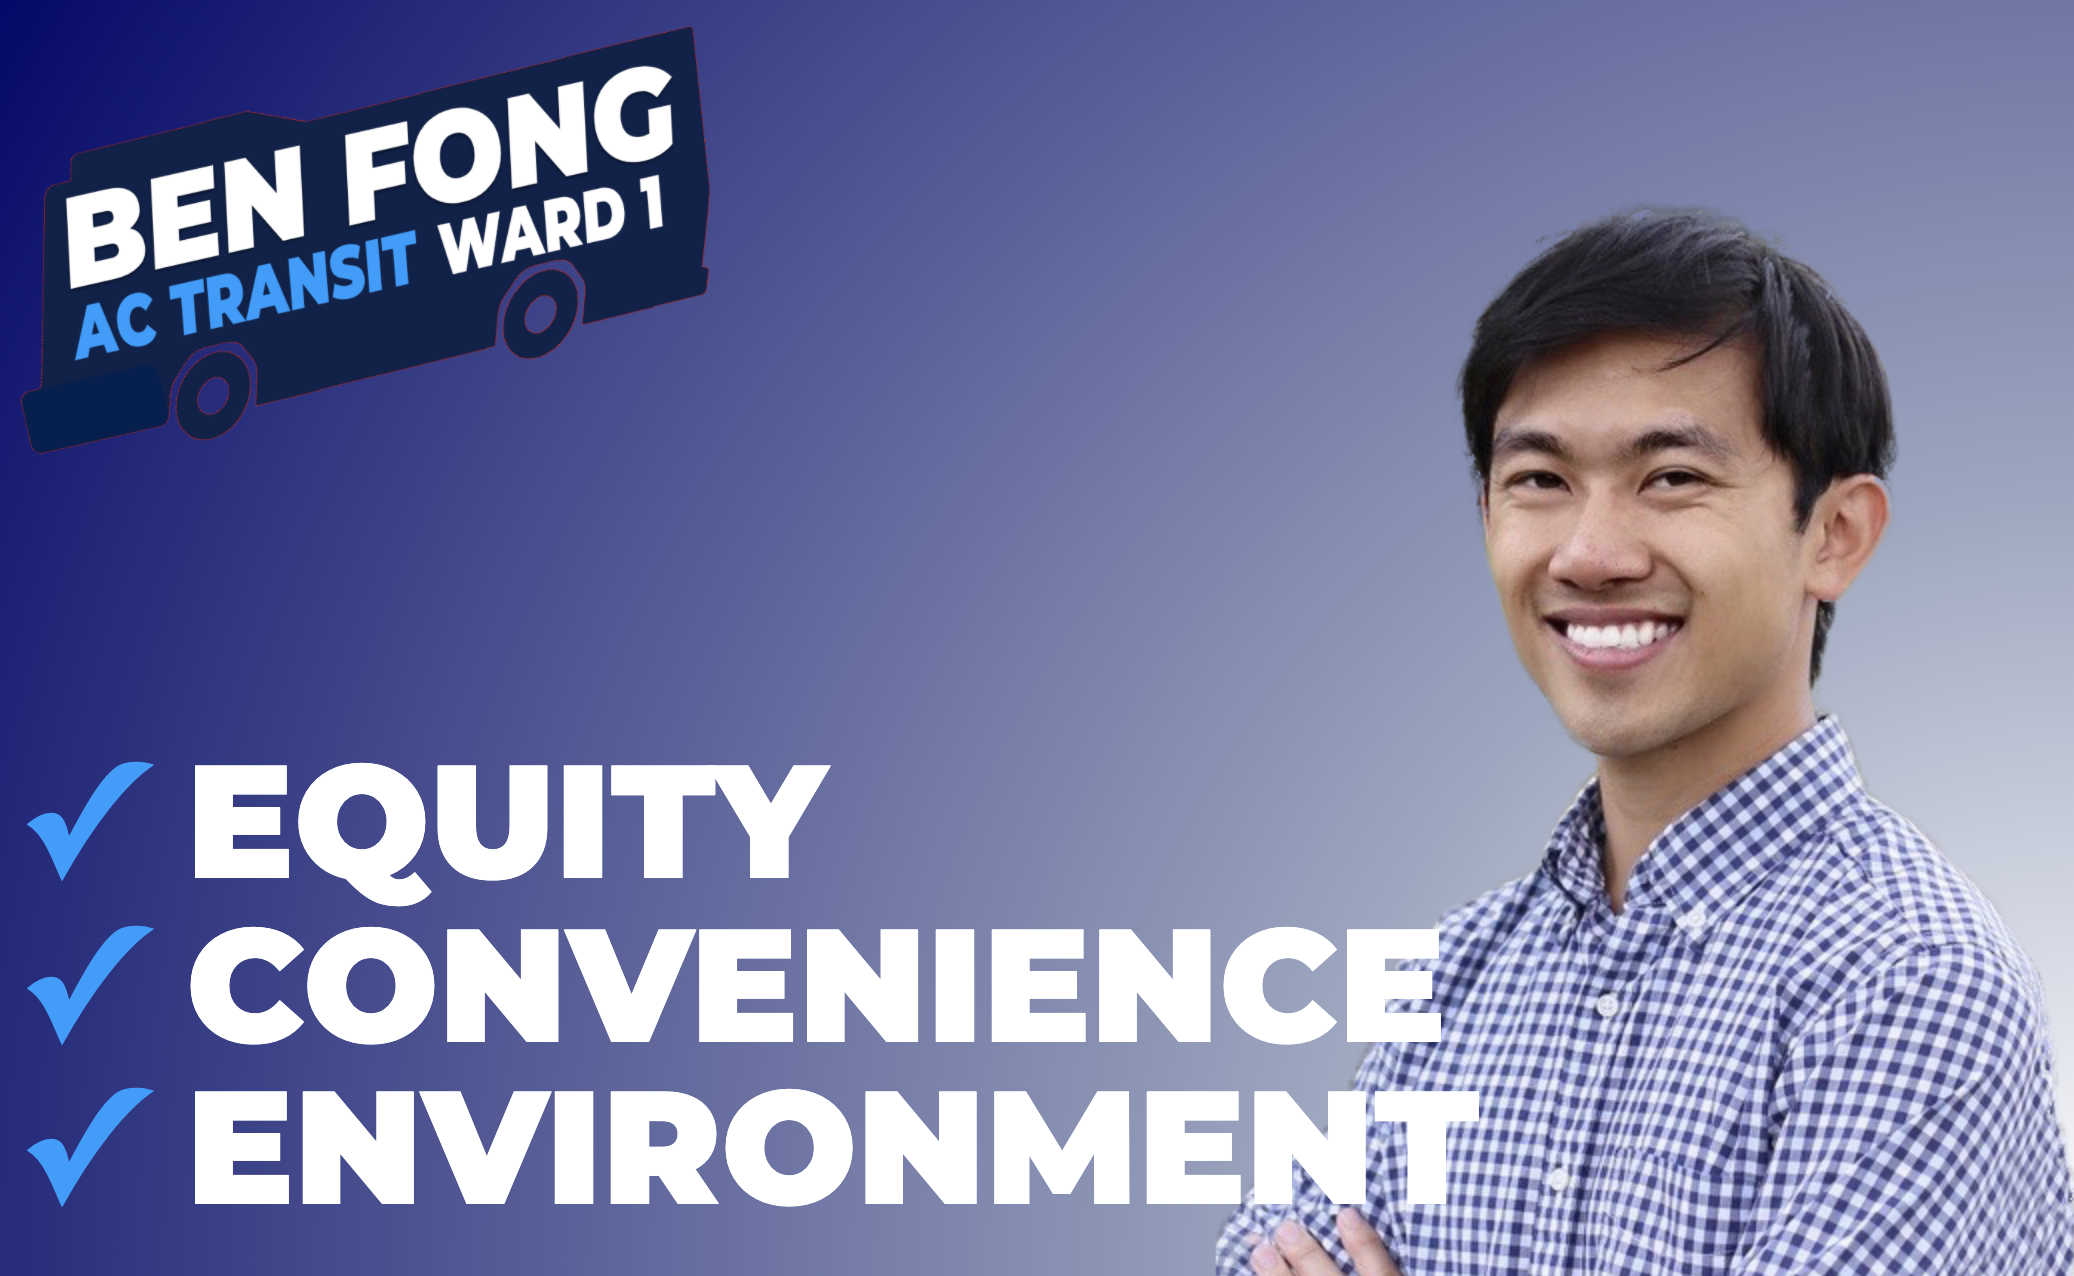
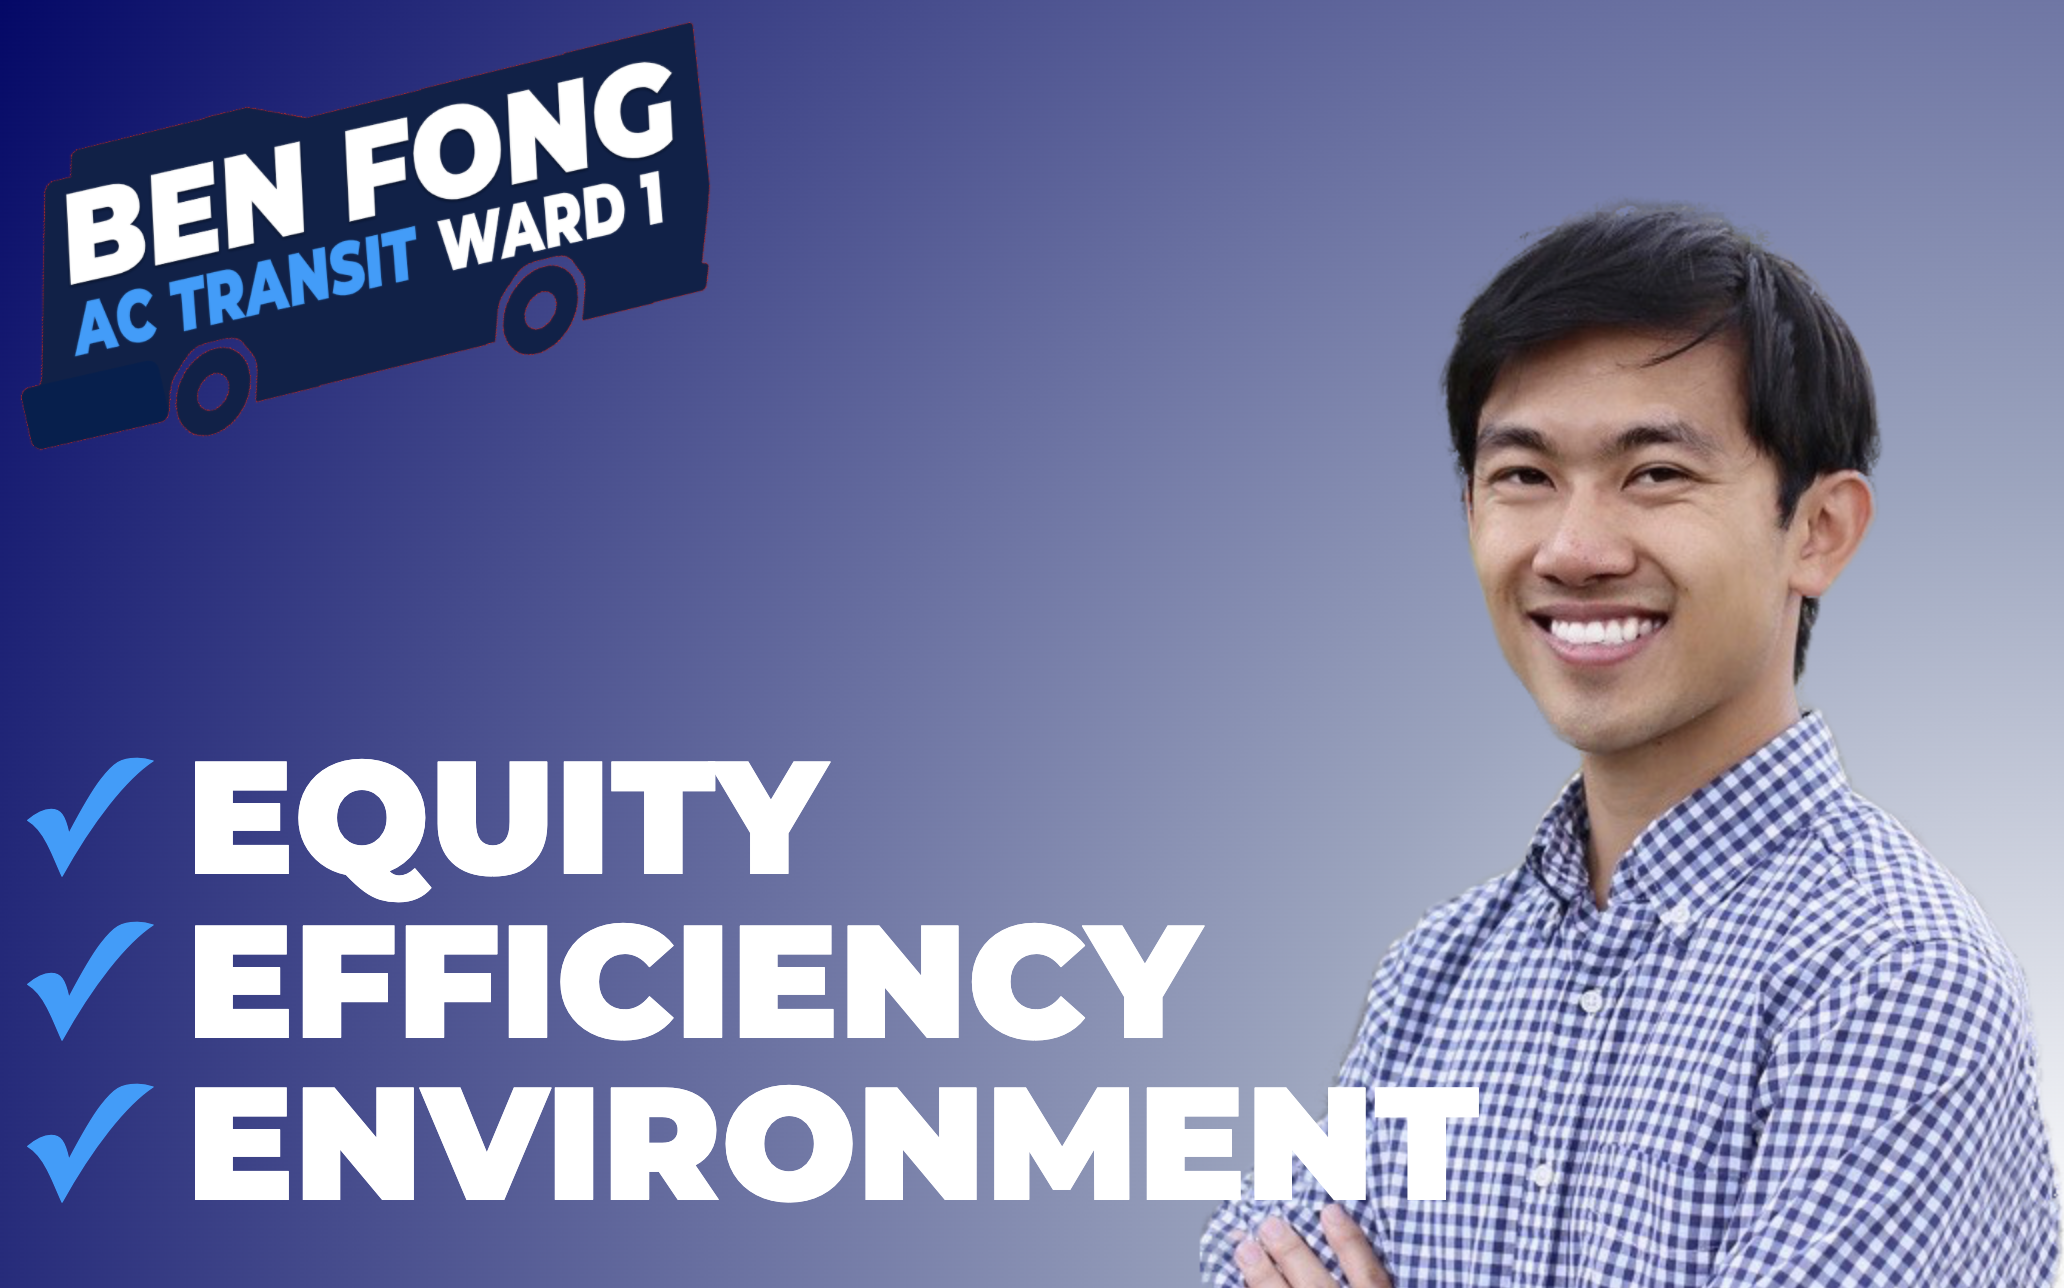
update keywords, share img

diff --git a/index.html b/index.html
@@ -13,14 +13,18 @@
 
     <meta charset="utf-8">
     <meta name="viewport" content="width=device-width, initial-scale=1">
+    <meta name="description" content="Elect Ben Fong for AC Transit Ward 1">
+    <meta name="keywords" content="ACTransit, AC, Transit, Ben, Fong, candidate, election, transportation, bus, richmond, albany, cerrito, ward, one, election">
+
     <title>Ben Fong for AC Transit Board</title>
+
     <link rel="stylesheet" type="text/css" href="styles.css">
     <link href="https://fonts.googleapis.com/css2?family=Merriweather:wght@300&display=swap" rel="stylesheet">
     <link href="https://fonts.googleapis.com/css2?family=Montserrat:ital,wght@1,900&display=swap" rel="stylesheet">
 
     <meta property="og:title" content="Ben Fong for AC Transit Ward 1">
-    <meta property="og:description" content="Vote for Ben Fong for AC Transit Ward 1.  Equity.  Convenience. Environment.">
-    <meta property="og:image" content="https://alexrivadeneira.github.io/share-img.png">
+    <meta property="og:description" content="Vote for Ben Fong for AC Transit Ward 1.  Equity.  Efficiency. Environment.">
+    <meta property="og:image" content="https://www.benfortransit.com/share-img.png">
     <meta property="og:url" content="http://www.benfongtransit.com">
 
   </head>
